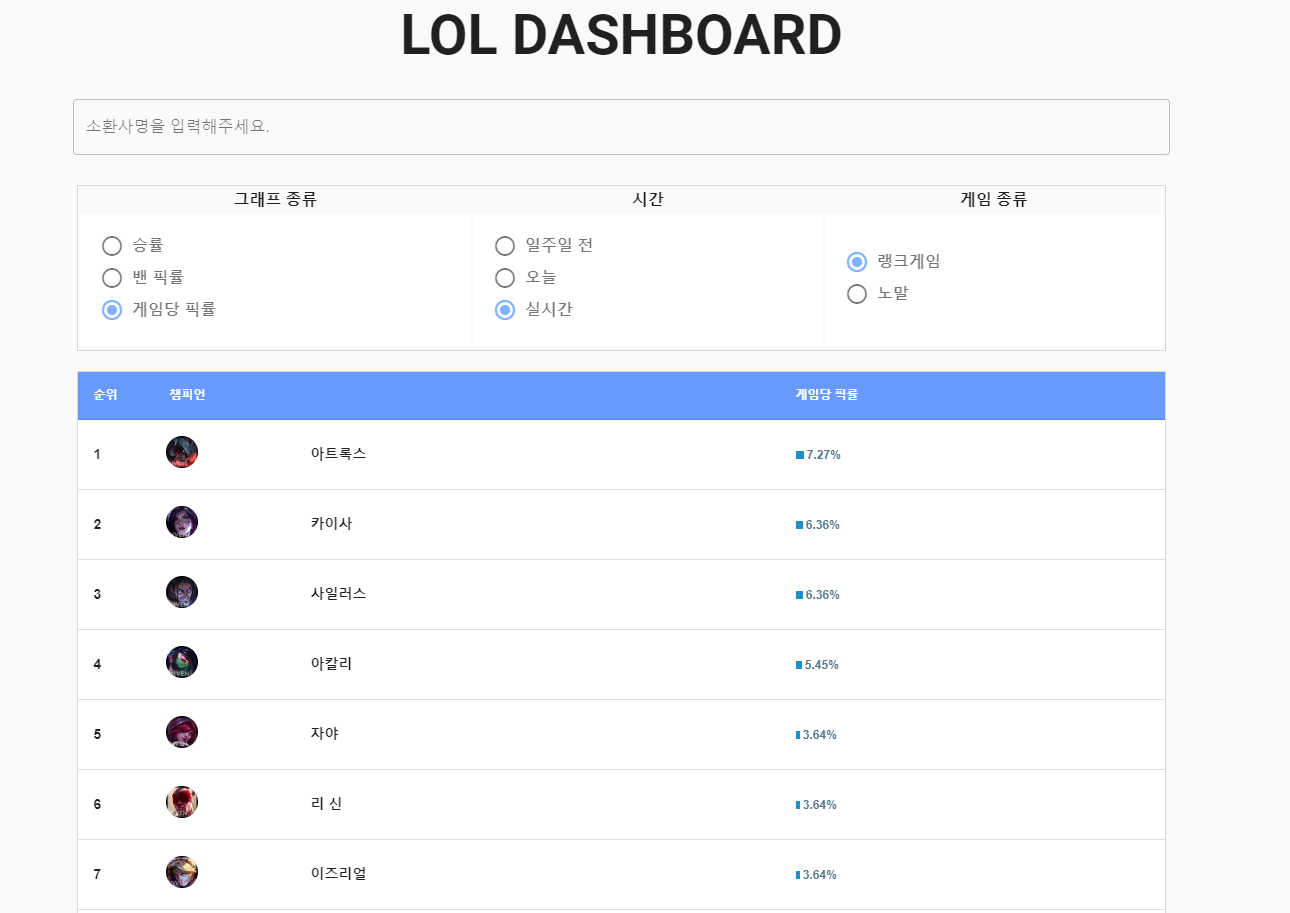
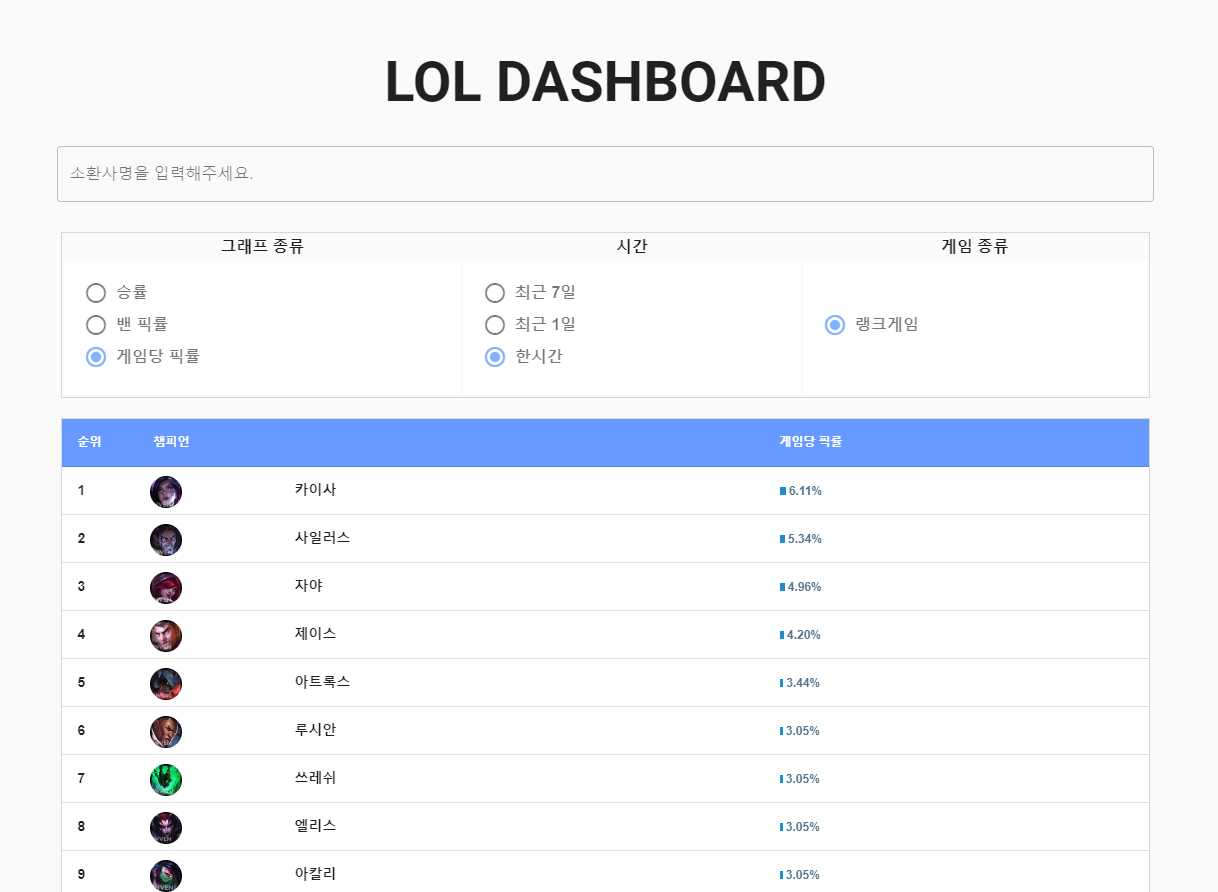
README UPDATE

diff --git a/README.md b/README.md
@@ -1,11 +1,37 @@
 LOL-DASHBOARD  
  -  
 
-특정 시간대 별로 사용자가 게임에서 선택한 캐릭터의 픽률 등을 조회할 수 있는 DASHBOARD.
+
+현재 진행 중인 게임의 한시간, 오늘, 일주일 등의 게임 픽률과 밴픽률, 그리고 오늘과 일주일동안의 챔피온의 승률을 볼 수 있는 DASHBOARD. 
+
+- 아키텍처
 
 ![아키텍처](./architecture.png)
 
+- 간트차트
 
-- UI 
+![간트차트](./Ganttchart.png)
+
+UI 그림
+
+- UI 게임 챔피온 픽률 
 
 ![UI](./UI.png)
+
+- UI 게임 챔피온 밴픽률
+
+![UI](./UIBanPick.png)
+
+- UI 게임 챔피온 승률
+
+![UIWinRate](./UIWinRate.png)
+
+- 데이터 없음
+
+![NoData](./nodata.png)
+
+- 에러 메세지
+
+![ERROR](./error.png)
+
+
